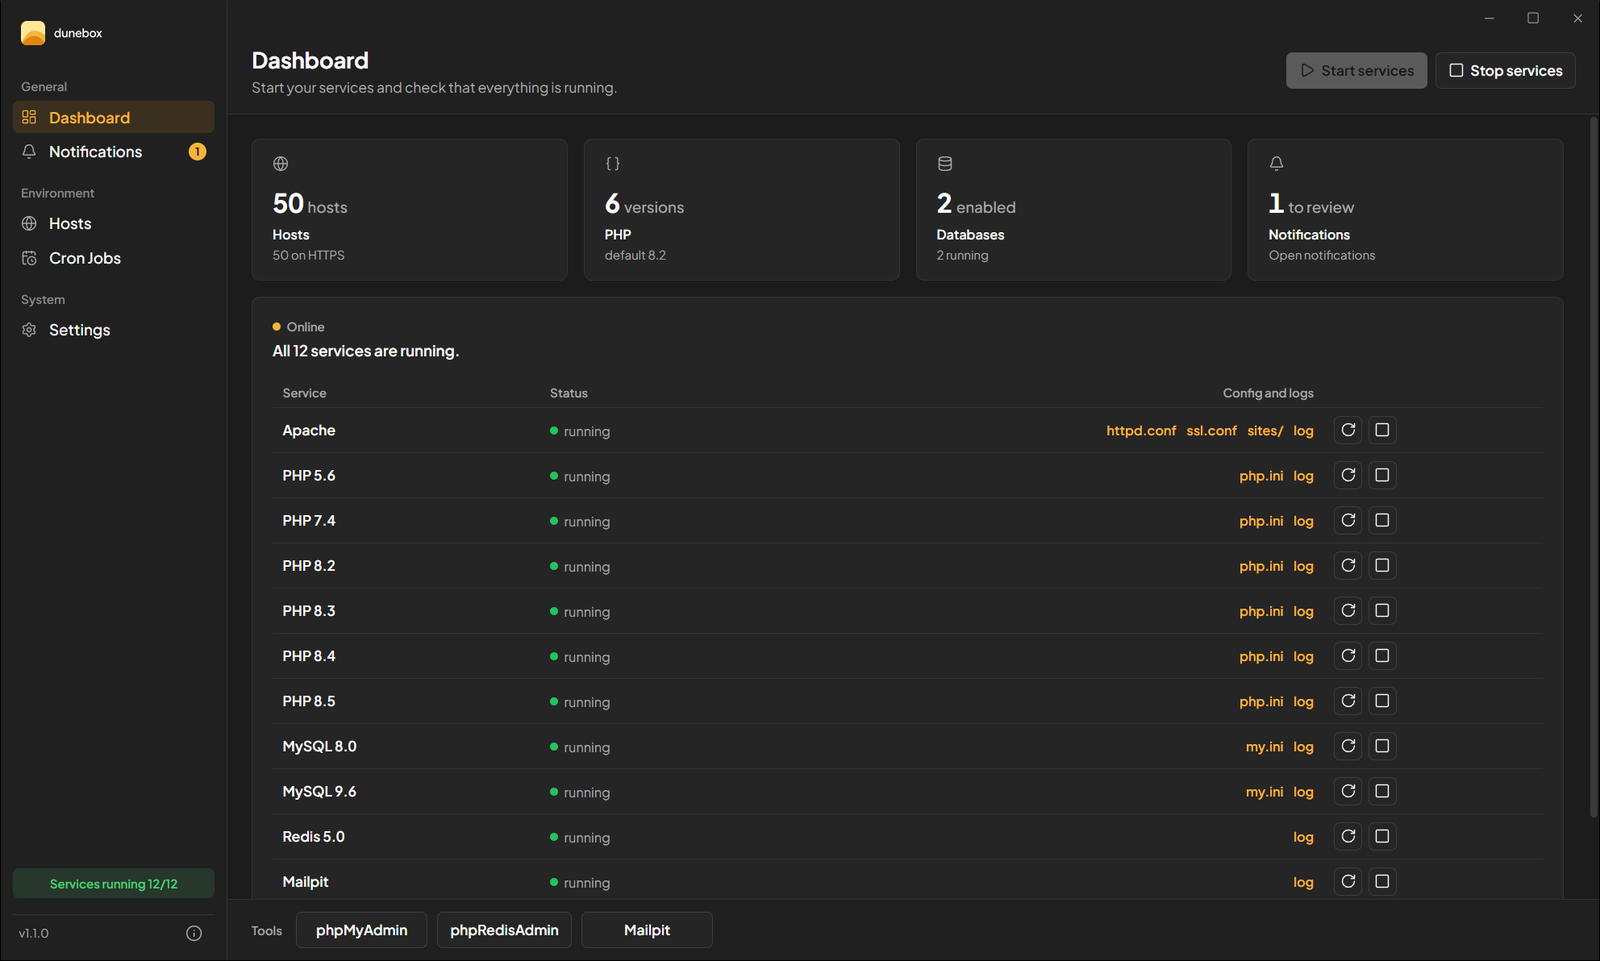
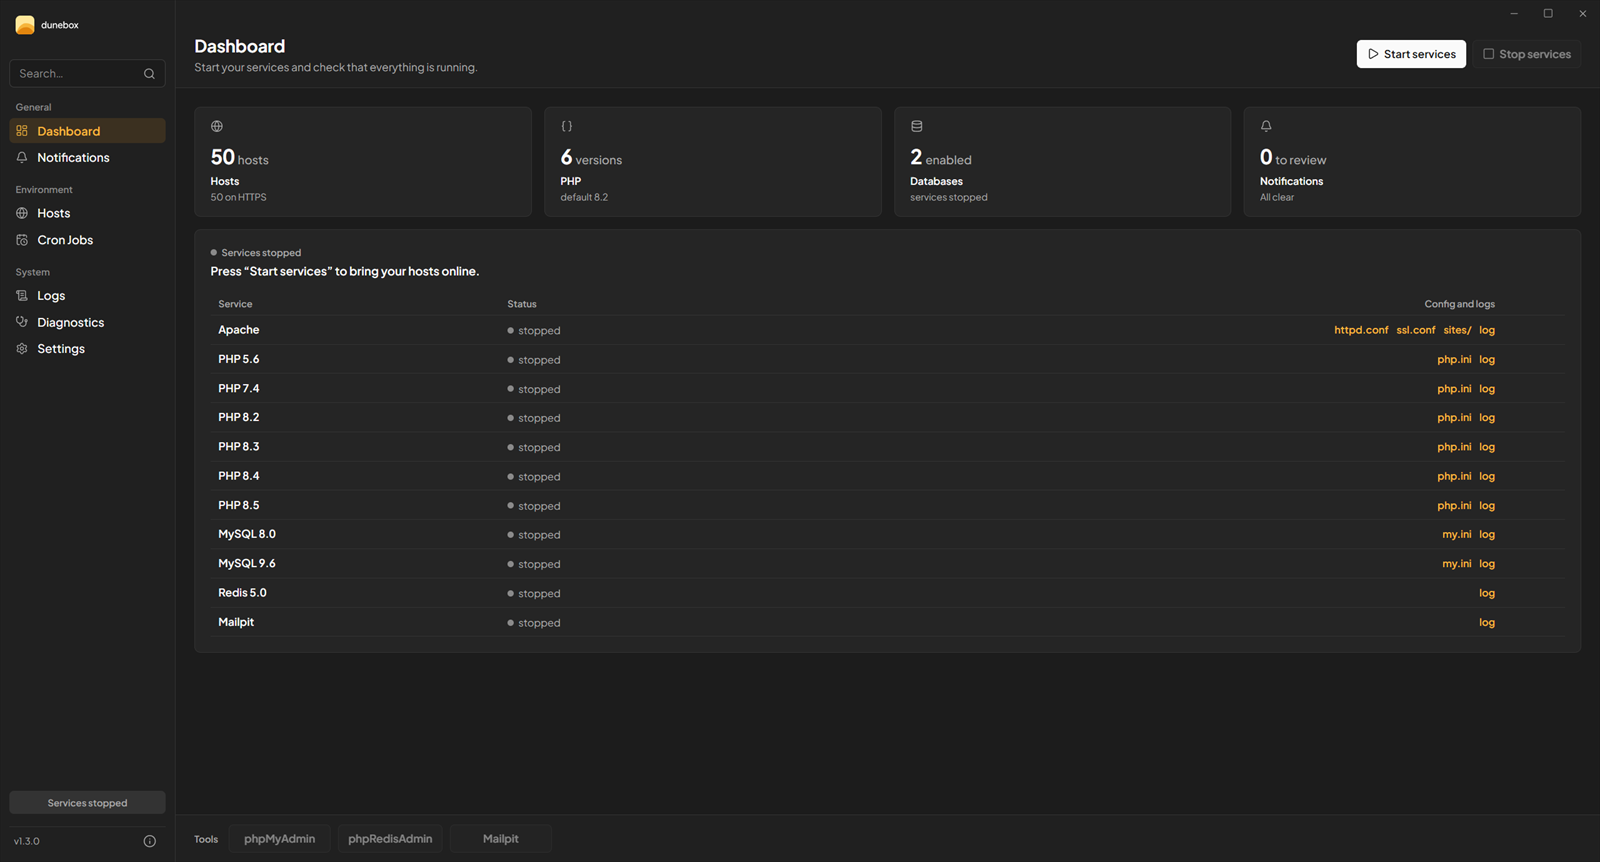
README essenziale (rimanda alla documentazione) e screenshot 1.3.0
Claude-Session: https://claude.ai/code/session_015Ay2YqxxWzzi22iwGedoem

diff --git a/README.md b/README.md
@@ -10,7 +10,7 @@
 
 <p align="center"><strong>The complete PHP development environment for Windows.</strong></p>
 
-Download a zip, extract it wherever you want, open `dunebox.exe`. On first launch a short wizard lets you choose what to install, then Dunebox downloads and configures everything by itself: web server, PHP (up to six versions at once), databases, mail, tools. No installer, no Windows service — when you remove it, just delete the folder.
+Download a zip, extract it wherever you want, open `dunebox.exe`. On first launch a short wizard lets you choose what to install, then Dunebox downloads and configures everything by itself: web server, several PHP versions side by side, databases, mail, tools. No installer, no Windows service — when you remove it, just delete the folder.
 
 <p align="center">
   <picture>
@@ -28,49 +28,15 @@ Download a zip, extract it wherever you want, open `dunebox.exe`. On first launc
 
 ---
 
-## ✨ What you get
-
-- **Every PHP version at once** — legacy to latest, side by side, no switching
-- **Many databases, even several versions of the same engine** — MySQL, MariaDB, PostgreSQL, MongoDB and Redis, each on its own port
-- **A local domain + green HTTPS for every project** — `mysite.test` in seconds, trusted certificate, Apache or nginx per site
-- **A smart terminal** — `php`/`artisan`/`composer`/`mysql` automatically use the current project's PHP version and database
-- **Built-in web tools** — phpMyAdmin, phpRedisAdmin, Mailpit
-- **Cron Jobs**, **optional local DNS**, **dev tools** and bundled **Composer**
-- **Claude integration** — drive Dunebox from Claude Code / Claude Desktop
-- **Private by default** — every service listens on `127.0.0.1` only, and commands from a project's config need your explicit approval
-- **Truly portable** — one folder; move it, copy it, carry it on a USB stick
-
----
-
 ## 📥 Get started
 
-1. Download the latest release zip (**`dunebox-vX.Y.Z.zip`**) from the [Releases](../../releases/latest) page.
-2. **Extract it** — we recommend **`C:\dunebox`** (any folder, another drive, or a USB stick works). That folder becomes Dunebox's home.
-3. Open **`dunebox.exe`** and follow the short setup wizard. Dunebox downloads the selected packages and configures everything, with **one Windows confirmation (UAC)** to add the host entries and trust the local certificate.
+1. Download **`dunebox-vX.Y.Z.zip`** from the [latest release](../../releases/latest).
+2. Extract it wherever you like (we recommend `C:\dunebox`).
+3. Open **`dunebox.exe`** and follow the short setup wizard.
 
-Requirements: Windows 10/11 (64-bit), an internet connection on first launch (to download packages), ~2–3 GB of disk for a typical install.
+Requirements: Windows 10/11 (64-bit). Updates install themselves from the app.
 
-## 🔄 Updating
-
-Quit Dunebox from the tray, then overwrite the two executables from the [latest release](../../releases/latest) — `dunebox.exe` in the root and `dunebox-cli.exe` in `system\`. Leave the **`config\` folder and your databases untouched**: your existing environment keeps working unchanged. Full steps in the [documentation](https://dunebox.enesi.it/docs.html).
-
-## 📖 Documentation
-
-The full guide lives at **[dunebox.enesi.it/docs.html](https://dunebox.enesi.it/docs.html)** — installation, hosts, multiple PHP versions, databases & credentials, email, HTTPS, Cron Jobs, the CLI, Claude integration and uninstall, all with copy-ready ports, credentials and commands.
-
-## ✅ Compatibility
-
-| | |
-|---|---|
-| **OS** | Windows 10 / 11 (64-bit) |
-| **PHP** | Multiple versions at once, from legacy to the latest |
-| **Databases** | MySQL, MariaDB, PostgreSQL, MongoDB, Redis — several at once |
-| **Frameworks** | Laravel (any version, legacy included) and any PHP project |
-| **Permissions** | one UAC confirmation for hosts + certificate; no service installed |
-
-The exact versions shipped in each release are listed in the [documentation](https://dunebox.enesi.it/docs.html).
-
----
+Features, supported versions, guides and the CLI reference are all in the **[documentation](https://dunebox.enesi.it/docs.html)**.
 
 ## ⭐ Like it?
 
